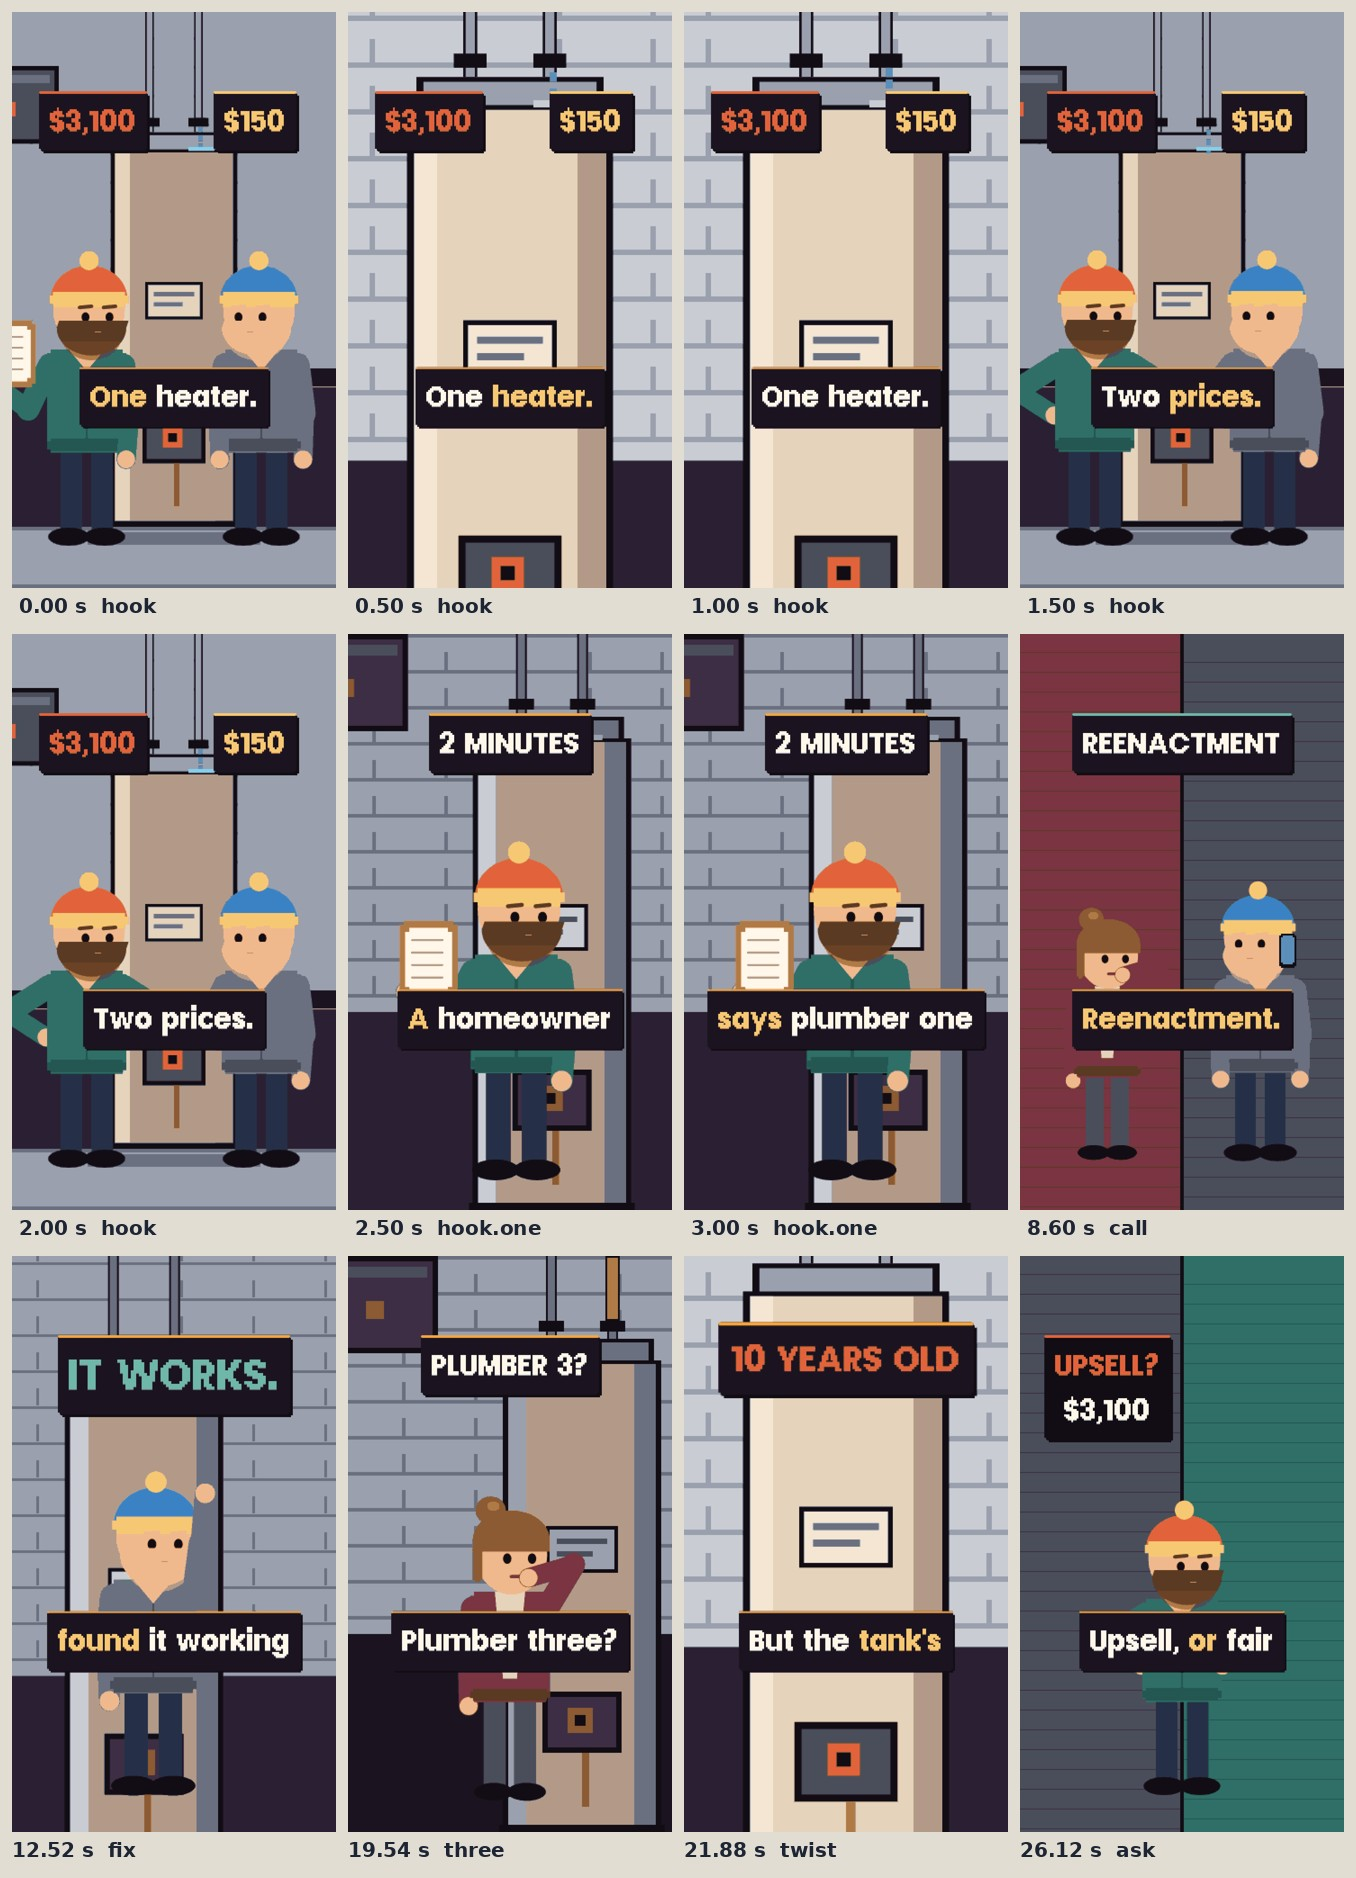
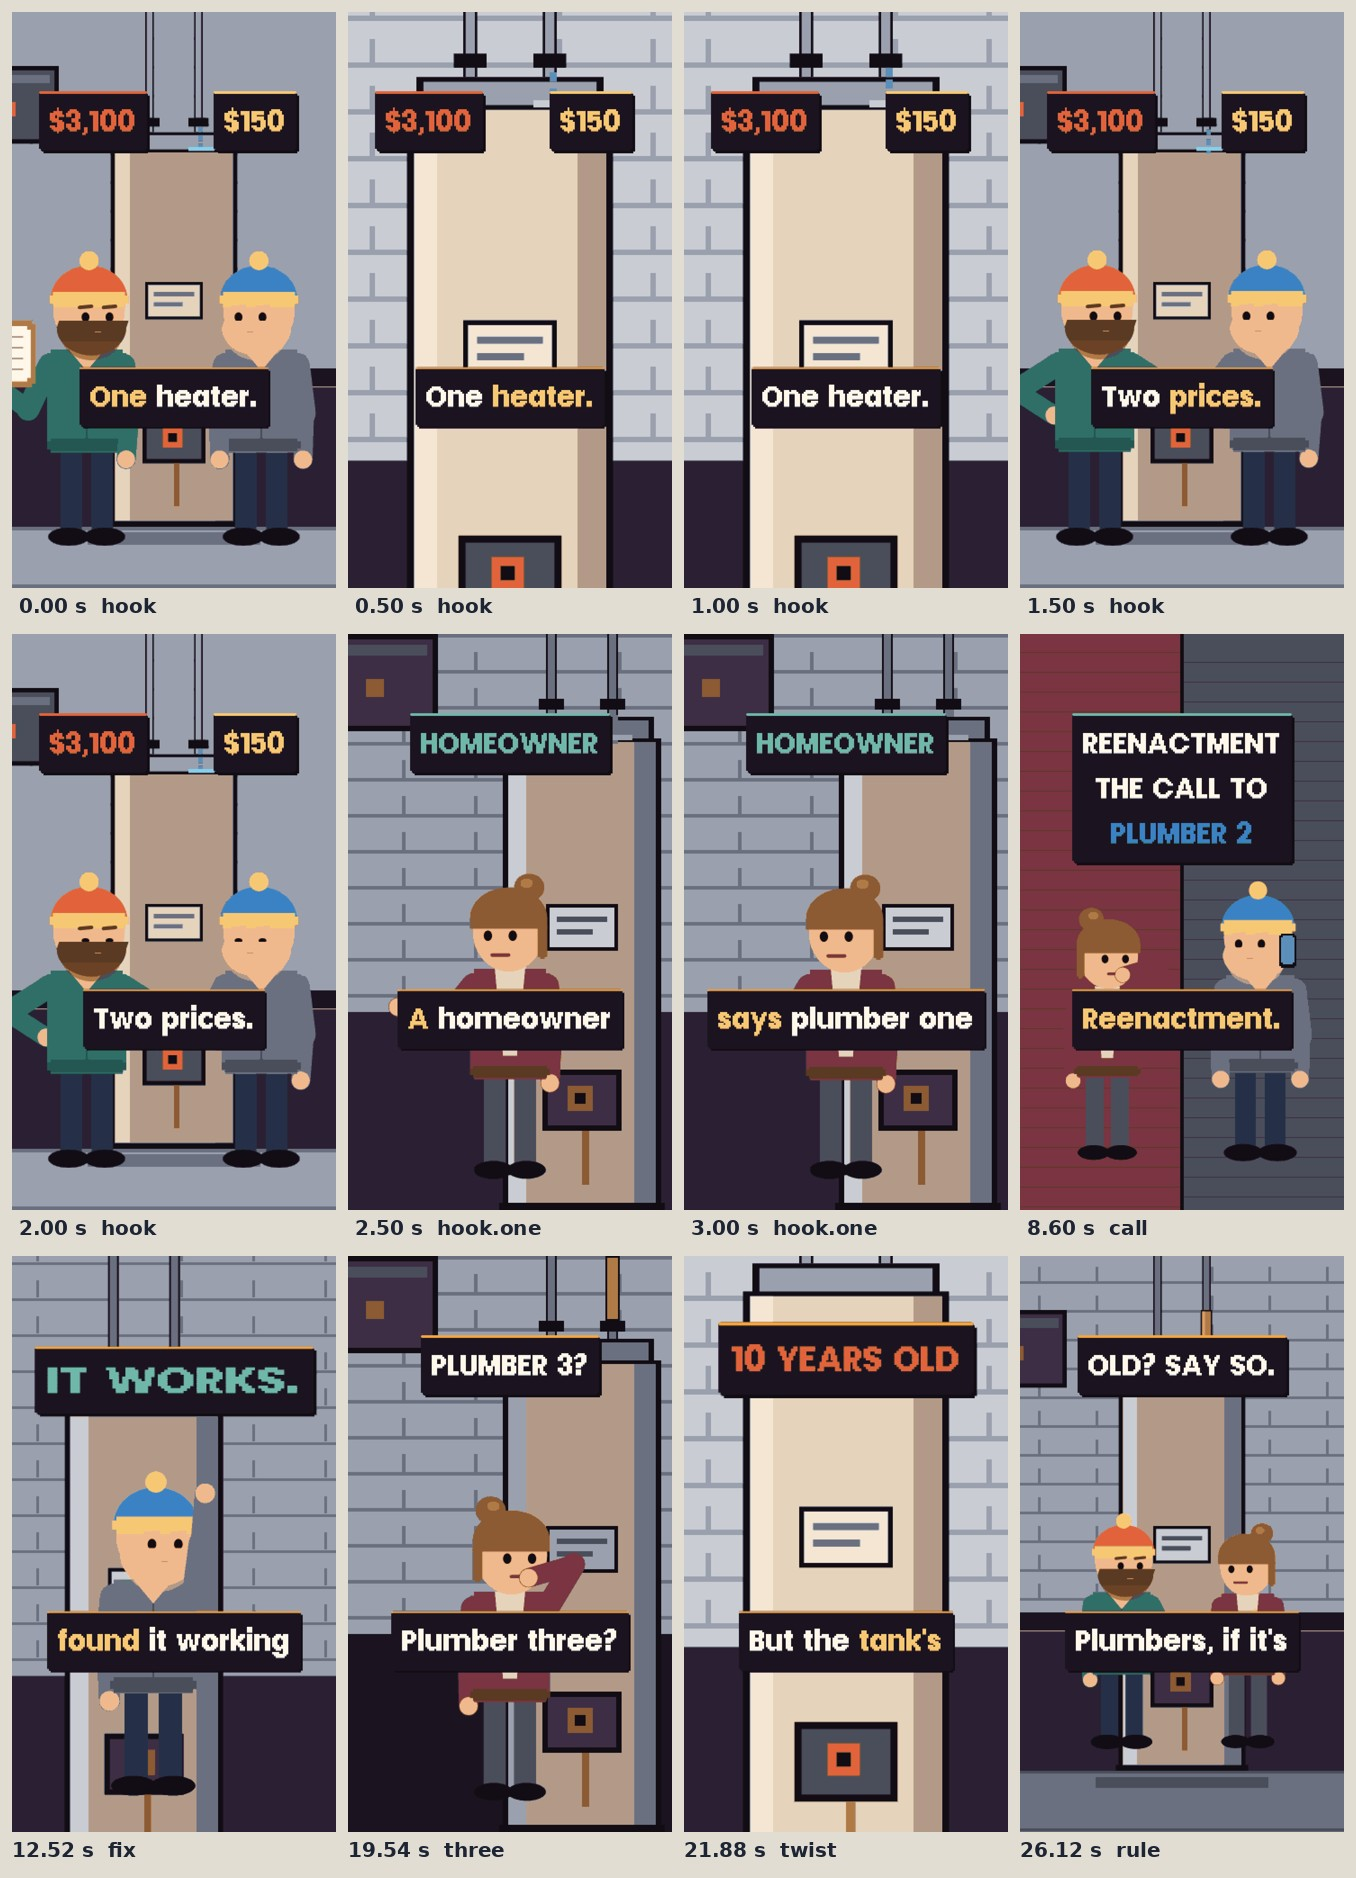
Studio: dead-or-150 (v4 call) every gate PASS: qa, facts r1, render-critic r1, viewer r1
Claude-Session: https://claude.ai/code/session_01XMn4eK5WZ5WjGis6mA3SHZ

diff --git a/video/studio/videos/2026-12-04-dead-or-150/03_cues/cues.js b/video/studio/videos/2026-12-04-dead-or-150/03_cues/cues.js
@@ -1,1 +1,1 @@
-window.CUES = {"schema": "pnf.studio.cues.v1", "source": "whisper medium.en int8, re-spelled from script.md", "music": {"id": "rooms", "level": 0.16, "tune": "night"}, "duration": 32.34, "cues": [{"id": "hook", "level": 0, "quote": "One heater", "sfx": "pop", "shift": 0.0, "pin": null, "text": "Frame 0, settled: the water heater in the middle, plumber one close on the left, plumber two close on the right. Left plate: $3,100 in red. Right plate: $150 in gold. At 0.5 s a plain cut to the heater close, the two prices on it, the left one red, the right one gold (the first change). On \"prices\" a plain cut back to the two plumbers, the same plates.", "t": 0.0, "word": 0, "end": 8.0}, {"id": "hook.one", "level": 1, "quote": "A homeowner says", "sfx": "blip", "shift": 0.0, "pin": null, "text": "A plain cut to plumber one, close, at the heater, clipboard up. The plate: 2 MINUTES. On \"dead\" a stamp: DEAD. in red. On \"thirty\" a stamp: NEW ONE: / $3,100, the last row big and red.", "t": 2.48, "word": 4, "end": 8.0}, {"id": "call", "level": 0, "quote": "Reenactment", "sfx": "blip", "shift": 0.0, "pin": null, "text": "The frame splits for a phone call: the homeowner left on a wine wall, phone to her ear; plumber two right on a slate wall, a phone at his ear. The plate across the top: REENACTMENT. On \"Can\" it gives way to the homeowner's line, her side lit: HOMEOWNER / CAN YOU STILL / COME LOOK? On \"I'll\" it gives way to his line, his side lit: PLUMBER 2 / I'LL LOOK.", "t": 8.0, "word": 18, "end": 11.92}, {"id": "fix", "level": 0, "quote": "Plumber two found it working", "sfx": "stamp", "shift": 0.0, "pin": null, "text": "A plain cut to plumber two, close, at the heater. The plate: IT WORKS. On \"swapped\" the pipe on top gets a new piece and the plate gives way to: A LEAKING PIPE. On \"hundred\" a stamp: $150, big and gold. On \"Hot\" a plain cut to the homeowner, close, smiling, steam off a mug: HOT WATER / IS BACK.", "payoff": true, "t": 11.92, "word": 26, "end": 18.94}, {"id": "three", "level": 0, "quote": "Plumber three", "sfx": "blip", "shift": 0.0, "pin": null, "text": "A plain cut to the homeowner, close, phone to her ear. The plate: PLUMBER 3? On \"Canceled\" a stamp: CANCELED in red.", "t": 18.94, "word": 44, "end": 21.28}, {"id": "twist", "level": 0, "quote": "But the tank's", "sfx": "stamp", "shift": 0.0, "pin": null, "text": "A plain cut to the heater, close, its label plate. The plate: THE TANK. On \"ten\" a stamp: 10 YEARS OLD, big and red. On \"Some\" a plain cut to the heater a step back, no one in the frame: SOME SAY / NEAR THE END.", "t": 21.28, "word": 47, "end": 25.52}, {"id": "ask", "level": 0, "quote": "Upsell, or fair", "sfx": "blip", "shift": 0.0, "pin": null, "text": "The frame splits, a slate wall left and a teal wall right, plumber one in the middle, shrugging: both readings of his quote. Left plate: UPSELL? / $3,100 in red. Right plate, on \"fair\": FAIR / WARNING? / 10 YEARS, in teal.", "t": 25.52, "word": 59, "end": 32.34}, {"id": "ask.owner", "level": 1, "quote": "Owners, show what you", "sfx": "stamp", "shift": 0.0, "pin": null, "text": "A plain cut to the utility room, plumber one left holding the clipboard out to the homeowner right, who reads it. The card lands: SHOW WHAT / YOU TESTED / BEFORE REPLACE, the middle row big and gold. Ends 1 s after the last word.", "t": 28.24, "word": 63, "end": 32.34}]};
+window.CUES = {"schema": "pnf.studio.cues.v1", "source": "whisper medium.en int8, re-spelled from script.md", "music": {"id": "rooms", "level": 0.16, "tune": "night"}, "duration": 34.42, "cues": [{"id": "hook", "level": 0, "quote": "One heater", "sfx": "pop", "shift": 0.0, "pin": null, "text": "Frame 0, settled: the water heater in the middle, plumber one close on the left, plumber two close on the right. Left plate: $3,100 in red. Right plate: $150 in gold. At 0.5 s a plain cut to the heater close, the two prices on it, the left one red, the right one gold (the first change). On \"prices\" a plain cut back to the two plumbers, the same plates.", "t": 0.0, "word": 0, "end": 8.0}, {"id": "hook.one", "level": 1, "quote": "A homeowner says", "sfx": "blip", "shift": 0.0, "pin": null, "text": "A plain cut to the homeowner, close, by the heater (viewer r0: the voice names her before plumber one). The plate: HOMEOWNER. On \"plumber\" a plain cut to plumber one, close, at the heater, clipboard up. The plate: PLUMBER 1, then on \"two\": 2 MINUTES. On \"dead\" a stamp: DEAD. in red. On \"thirty\" a stamp: NEW ONE: / $3,100, the last row big and red.", "t": 2.48, "word": 4, "end": 8.0}, {"id": "call", "level": 0, "quote": "Reenactment", "sfx": "blip", "shift": 0.0, "pin": null, "text": "The frame splits for a phone call: the homeowner left on a wine wall, phone to her ear; plumber two right on a slate wall, a phone at his ear, a phone at hers (viewer r0: no dimming, which changed their colors). The plate across the top: REENACTMENT / THE CALL TO / PLUMBER 2. On \"Can\" it gives way to the homeowner's line, her side lit: HOMEOWNER / CAN YOU STILL / COME LOOK? On \"I'll\" it gives way to his line, his side lit: PLUMBER 2 / I'LL LOOK.", "t": 8.0, "word": 18, "end": 11.92}, {"id": "fix", "level": 0, "quote": "Plumber two found it working", "sfx": "stamp", "shift": 0.0, "pin": null, "text": "A plain cut to plumber two, close, at the heater. The plate: PLUMBER 2, then on \"found\": IT WORKS. On \"swapped\" the pipe on top gets a new piece and the plate gives way to: A LEAKING PIPE. On \"hundred\" a stamp: $150, big and gold. On \"Hot\" a plain cut to the homeowner, close, smiling, steam off a mug: HOT WATER / IS BACK.", "payoff": true, "t": 11.92, "word": 26, "end": 18.94}, {"id": "three", "level": 0, "quote": "Plumber three", "sfx": "blip", "shift": 0.0, "pin": null, "text": "A plain cut to the homeowner, close, phone to her ear. The plate: PLUMBER 3? On \"Canceled\" a stamp: CANCELED in red.", "t": 18.94, "word": 44, "end": 21.28}, {"id": "twist", "level": 0, "quote": "But the tank's", "sfx": "stamp", "shift": 0.0, "pin": null, "text": "A plain cut to the heater, close, its label plate. The plate: THE TANK. On \"ten\" a stamp: 10 YEARS OLD, big and red. On \"Some\" a plain cut to the heater a step back, no one in the frame: SOME SAY / NEAR THE END.", "t": 21.28, "word": 47, "end": 25.52}, {"id": "rule", "level": 0, "quote": "Plumbers, if it's old", "sfx": "whoosh", "shift": 0.0, "pin": null, "text": "A plain cut to the utility room, plumber one left holding the clipboard out to the homeowner right, who reads it (viewer r0: the lesson gets its own beat before the question, tied to the tank's age). The plate: OLD? SAY SO. On \"show\" a stamp: SHOW WHAT / YOU TESTED / BEFORE REPLACE, the middle row big and gold.", "t": 25.52, "word": 59, "end": 31.6}, {"id": "ask", "level": 0, "quote": "Upsell, or fair", "sfx": "blip", "shift": 0.0, "pin": null, "text": "The frame splits, a slate wall left and a teal wall right, plumber one in the middle, shrugging: both readings of his quote. Left plate: UPSELL? / $3,100 in red. Right plate, on \"fair\": FAIR / WARNING? / 10 YEARS, in teal. Ends 1 s after the last word.", "t": 31.6, "word": 74, "end": 34.42}]};

diff --git a/video/studio/videos/2026-12-04-dead-or-150/02_transcript/mouth.js b/video/studio/videos/2026-12-04-dead-or-150/02_transcript/mouth.js
@@ -1,1 +1,1 @@
[2 lines of base64/hex data omitted]

diff --git a/video/studio/videos/2026-12-04-dead-or-150/04_scene/scene.js b/video/studio/videos/2026-12-04-dead-or-150/04_scene/scene.js
@@ -214,9 +214,10 @@ Object.assign(window.SCENE.sections, {
       const t0 = k.S('ask'), tFair = wordT(k, 'ask', /^fair/i, 0.9) - 0.1;
       k.cut(t0);
       split(k, SLATE, DTEAL);
-      plumber1(k, 540, 2.0, 'shrug', {feet: 1780});   /* facts r1 advisory: both readings hang on plumber one's verdict */
-      plate(k, [['UPSELL?', 132, RED], ['$3,100', 132, CREAM]], 264, {cx: 290, bg: INK, rule: RED});
-      if (T >= tFair) stampPlate(k, [['FAIR', 132, TEAL], ['WARNING?', 132, TEAL], ['10 YEARS', 132, CREAM]], 264, tFair, {cx: 768, bg: INK, rule: TEAL, drop: 0.06});
+      plumber1(k, 540, 1.6, 'shrug', {feet: 1630});   /* facts r1 advisory: both readings hang on plumber one's verdict; faces between the plates and the captions */
+      /* r1: side by side the two plates overlapped (both cannot fit at 132), so they stack */
+      plate(k, [['UPSELL? $3,100', 132, RED]], 264, {bg: INK, rule: RED});
+      if (T >= tFair) stampPlate(k, [['FAIR WARNING?', 132, TEAL], ['10 YEARS OLD', 132, CREAM]], 480, tFair, {bg: INK, rule: TEAL, drop: 0.06});
       return {host: false};
     },
 });

diff --git a/coo/HANDOFF.md b/coo/HANDOFF.md
@@ -1,11 +1,11 @@
-# Handoff (Layer 1), Nov 15
+# Handoff (Layer 1), Nov 17
 
 Current state only; history: coo/DECISIONS-*.md. Goal: one $1,000 net month by Jan 31, 2027.
 
 - Money: 0 payers, 0 replies. Live: Chicago and Austin cleaning leads $29, restaurant $39, pest seat (3 seats), area seats (6 open), free calculators, 11 Chicago data pages.
 - Outreach: trade owners only, standing send rule, toward 120 first emails (Mon 9:40 am). Senders hello@ (25/day), sales@. Entity A: 720 GC leads. Trial offer Wed 9:50 am.
 - Site: question pages daily (box drafts from Nov 8); news, index, radar on the 1st and 15th. Index 90/101 (Oct 30). Radar: health 4 PASS, AI 0 of 12.
-- Videos: engine v4 (annex): verdict, invoice, call, case, update; 4 gates, labels IG/FB/TikTok on. 1 post a day (8:13 pm), 1 make run (9:33 pm; it cannot open most news pages: cases get built in a live chat). First case posted Nov 12; first update (claim-it-in-chatgpt) held: viewer failed 5 of 5. Nov 13 (Todd): heat read (tools/yt_heat.py, research/heat/); demo trial failed 3 reviews, unposted. Nov 15 (Todd): host trial failed; next: product story trial (DECISIONS-2026-11-15). Bars: TEST-2026-11-23.md; level-ups: VIRALITY-2026-11.md. Old formats held. Next, Todd, own chat: feed sign-ins, TikTok by hand.
+- Videos: engine v4 (annex): verdict, invoice, call, case, update; 4 gates, labels IG/FB/TikTok on. 1 post a day (8:13 pm), 1 make run (9:33 pm); no case source readable: verdict, invoice or call fills in (Todd, Nov 16). First case posted Nov 12; first call queued Nov 17; first update held. Nov 13 (Todd): heat read (tools/yt_heat.py, research/heat/); demo trial failed 3 reviews, unposted. Nov 15 (Todd): host trial failed; next: product story trial (DECISIONS-2026-11-15). Bars: TEST-2026-11-23.md; level-ups: VIRALITY-2026-11.md. Old formats held. Next, Todd, own chat: feed sign-ins, TikTok by hand.
 - Box: every studio run fills the GEEKOM night queue; no Fable anywhere.
 - Foundations (Nov 7): constitution is a core plus annexes in coo/constitution/; the context gate counts the full load; the studio reads by step. Open: Todd's account connector cleanup; his call on pausing video-line changes. Video lab: no notes since Oct 29.
 - Priority (Todd, Nov 8): perfect the social engine. Next: asset scan. Radar redesign: launches/radar-design-brief.md. Grid-down library: steps 1 to 4 live Nov 7 (geekom.local, laptop only; PNF-OFFLINE, outage port, offline-chat); Model Chat live; media models queued (scripts/media); model scout Sun; next modem test Sun 1 to 3:30 pm, then 5, 6, drill.

diff --git a/video/studio/research/STORIES.md b/video/studio/research/STORIES.md
@@ -17,7 +17,7 @@ lessons; one cluster lesson that flops is not a verdict. Ready target: 5 stories
 | Nov 12 | OpenAI opened Businesses in ChatGPT (beta, Nov 10): how an owner claims the listing, and the catch for local shops. Waits on Todd's own screenshots of Business Hub (OpenAI's pages refuse our readers) | update | research/VIRALITY-2026-11-briefs/05-chatgpt-business-hub.md |
 | Nov 12 | Owed $4,225 on a shower, a contractor smashed it with a sledgehammer; the public result is held for the end (made Nov 12 in Todd's live chat: 2026-12-02-took-it-back, queued first) | case | research/VIRALITY-2026-11-briefs/04-sledgehammer-4225.md |
 | Nov 11 | A crew did a $6,000 job in under six hours and the customer offered half | verdict | research/VIRALITY-2026-11-briefs/01-six-hours-6k.md |
-| Nov 11 | One plumber quoted $3,100 to replace a water heater, a second fixed it for $150 | call | research/VIRALITY-2026-11-briefs/02-dead-or-150.md |
+| Nov 11 | One plumber quoted $3,100 to replace a water heater, a second fixed it for $150 (made Nov 17 in Todd's live chat under his Nov 16 "Other formats fill in": 2026-12-04-dead-or-150, queued first; source read at its slug address) | call | research/VIRALITY-2026-11-briefs/02-dead-or-150.md |
 | Nov 11 | Where $100 of a plumbing bill goes: about $9 left, about $2 after the shop (made Nov 11: 2026-12-01-where-100-goes, queued first) | invoice | research/VIRALITY-2026-11-briefs/03-where-100-goes.md |
 
 ## Ready (dossier written and verified; newest first)

diff --git a/video/studio/videos/2026-12-04-dead-or-150/03_cues/cues.md b/video/studio/videos/2026-12-04-dead-or-150/03_cues/cues.md
@@ -43,5 +43,5 @@ SHOW WHAT / YOU TESTED / BEFORE REPLACE, the middle row big and gold.
 
 ## ask "Upsell, or fair" [sfx: blip]
 The frame splits, a slate wall left and a teal wall right, plumber one in the middle, shrugging: both readings of his
-quote. Left plate: UPSELL? / $3,100 in red. Right plate, on "fair": FAIR / WARNING? / 10 YEARS, in teal. Ends 1 s after
-the last word.
+quote. The top plate: UPSELL? $3,100 in red. Under it, on "fair": FAIR WARNING? / 10 YEARS OLD, in teal. Ends 1 s
+after the last word.
